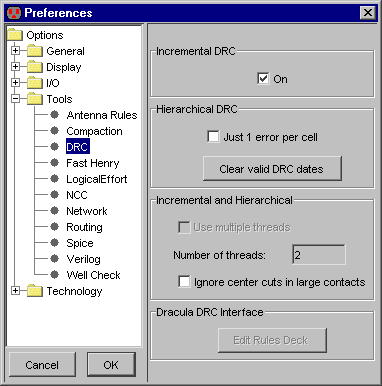
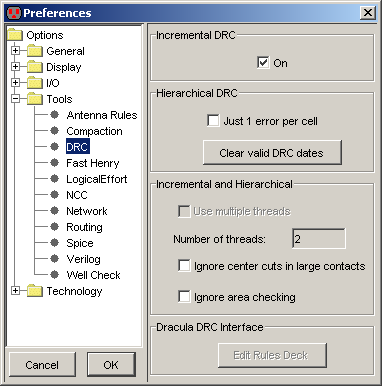
- Fix in geometry on network: wrong network selected
git-svn-id: https://svn.java.net/svn/electric~svn/trunk@1520 b64ed6c1-75a8-e629-b1da-d0dae74a743a

diff --git a/srcj/com/sun/electric/tool/user/help/helphtml/chap08-02-01.html b/srcj/com/sun/electric/tool/user/help/helphtml/chap08-02-01.html
@@ -17,6 +17,9 @@ very large contact nodes can create excessive work for the design-rule checker a
 To save time, check the "Ignore center cuts in large contacts" check box,
 which will examine only the cut layers around the edges of contact nodes.
 <P>
+DRC rules for new technologies might require minimum and enclosed area checking however this could be time
+consuming. To ignore this error type, check the "Ignore area checking" check box.
+<P>
 </TD><TD><CENTER><IMG SRC="fig09-20.png" ALT="Figure 9.20"></CENTER></TD></TR></TABLE>
 <P>
 After analysis of the circuit,
